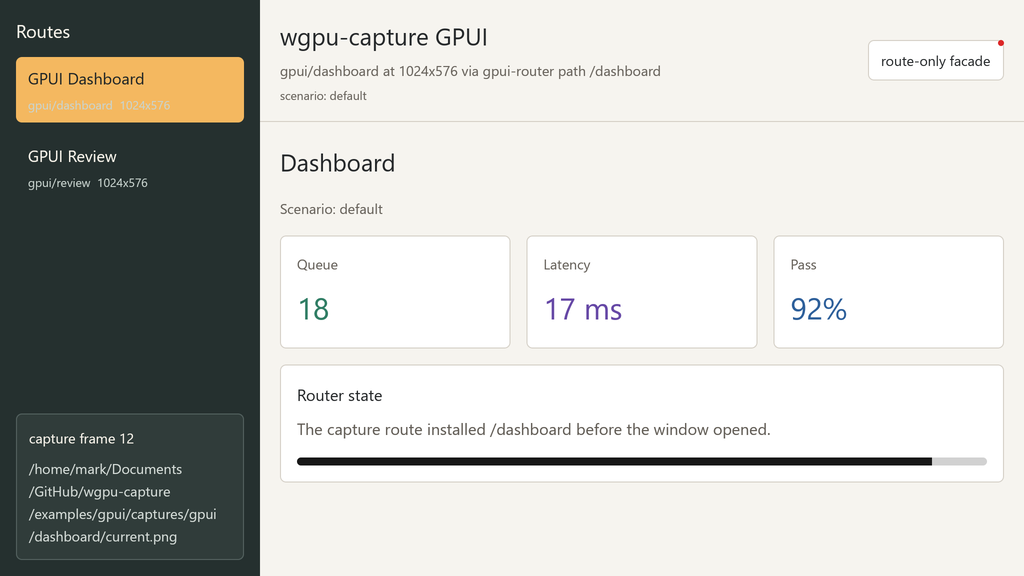
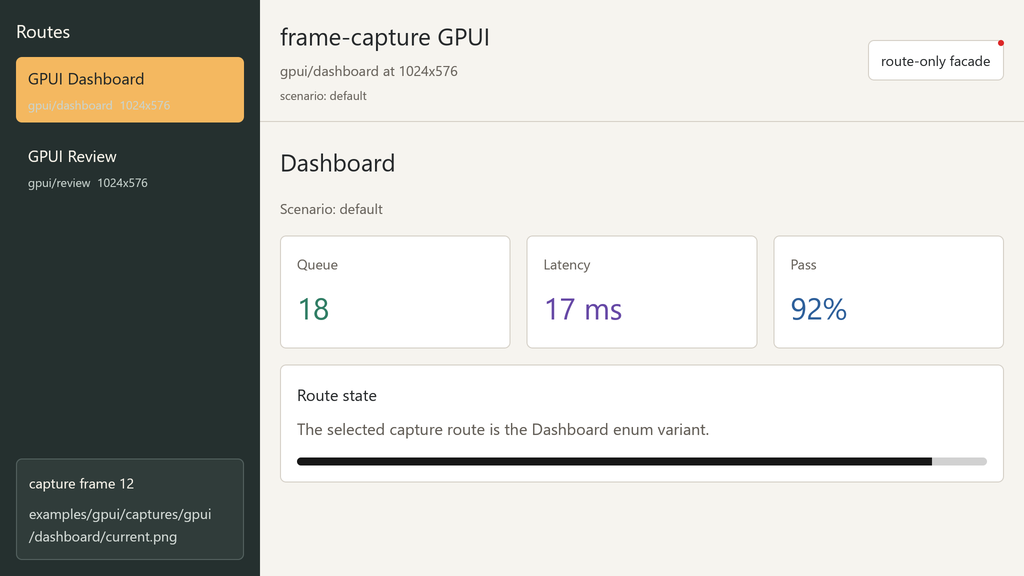
.

diff --git a/examples/gpui/src/main.rs b/examples/gpui/src/main.rs
@@ -404,7 +404,6 @@ fn metric(title: &'static str, value: &'static str, color: Rgba) -> impl IntoEle
         )
 }
 
-// #[cfg(target_os = "macos")]
 fn save_native_capture(
     route: GpuiExampleRoute,
     scenario: Option<GpuiExampleScenario>,

diff --git a/README.md b/README.md
@@ -356,10 +356,8 @@ cargo run --manifest-path examples/gpui/Cargo.toml
 ```
 
 The GPUI example is kept outside the default workspace so normal workspace
-checks do not compile the pinned Zed/GPUI dependency graph. The
-`just example-gpui-captures` recipe runs GPUI through
+checks do not compile the forked Zed/GPUI `linux-headless-renderer` dependency
+graph. The `just example-gpui-captures` recipe runs GPUI through
 `cargo run --manifest-path examples/gpui/Cargo.toml`, so it does not make GPUI a
-workspace dependency. On macOS, use `just example-gpui-captures` when you want
-to regenerate captures with GPUI's native `test-support` headless renderer. In
-the pinned GPUI revision, `gpui_platform::current_headless_renderer()` is only
-implemented for macOS; non-macOS hosts can still check and run the example live.
+workspace dependency. Use `just example-gpui-captures` to regenerate captures
+with GPUI's `test-support` headless renderer.
